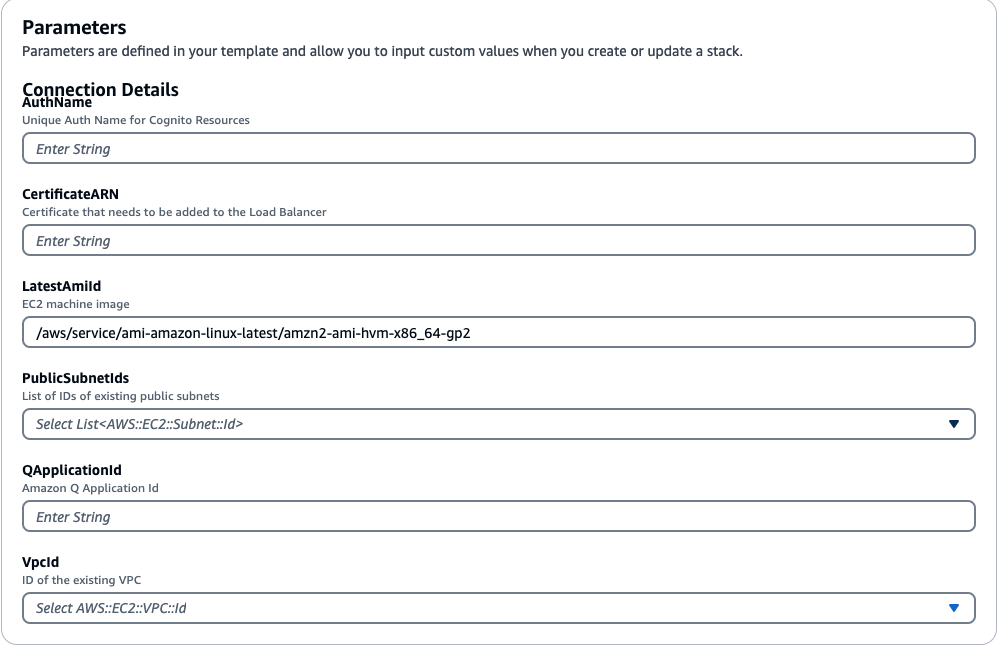
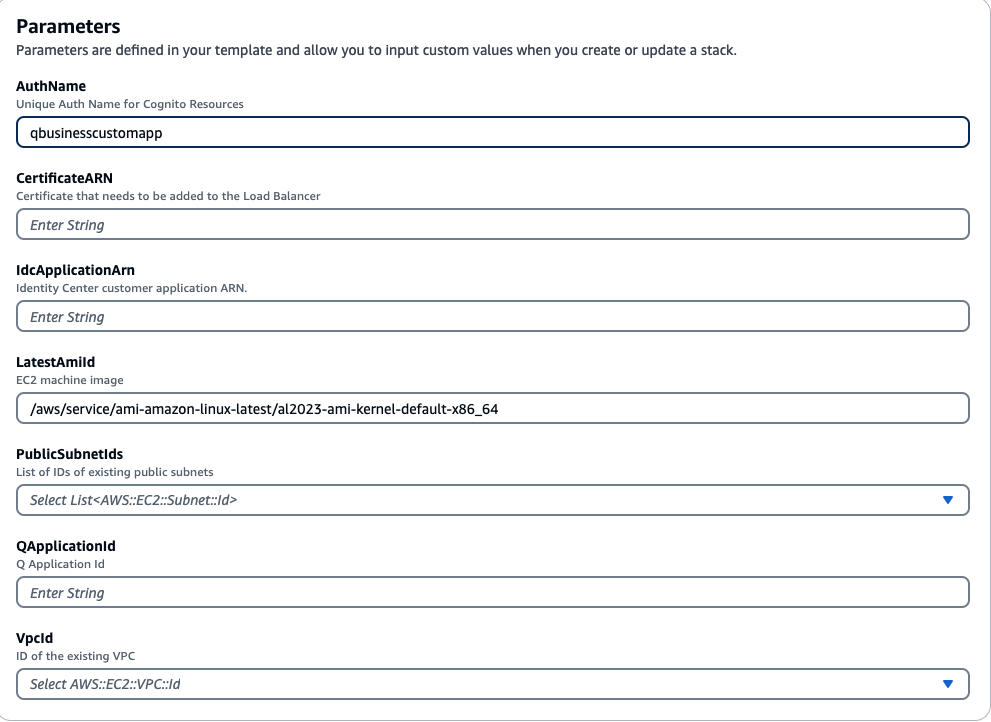
chnages to readme

Changed region(s): [[0.0, 0.0, 1.0, 1.0]]

diff --git a/README.md b/README.md
@@ -47,6 +47,7 @@ If you have administrator access to the account, no action is necessary.
 For more details, [refer to Importing a certificate](https://docs.aws.amazon.com/acm/latest/userguide/import-certificate-api-cli.html).   
 If you do not have a public SSL certificate, follow the steps in the next section to learn how to generate a private certificate.
 - An existing, working Amazon Q application 
+- 
 
 ### Generate Private certificate
 
@@ -72,18 +73,89 @@ If you wish to continue with the self-signed certificate (for development purpos
 
 Step 1: Launch the AWS CloudFormation template. Launch the following AWS CloudFormation template to deploy ELB , Cognto User pool , including the EC2 instance to host the webapp. 
 
+Provide the following parameters for stack
 
-- Provide a Stack Name,
-- And provide all the parameters for CloudFormation template .
-- And copy the URL from the output tab once the stack is sucessfuly completed
+•	**Stack name** – The name of the CloudFormation stack (for example, AmazonQ-UI-Demo)
+
+•	**AuthName** – A globally unique name to assign to the Amazon Cognito user pool
+
+•	**CertificateARN** – The CertificateARN generated from the previous step
+
+•	**IdcApplicationArn** – Identity Center customer application ARN , keep it blank on first run as we need to cognito user pool information to create the Idc Application
+
+
+•	**PublicSubnetIds** – The ID of the public subnet that can be used to deploy the EC2 instance and the Application Load Balancer
+
+•	**QApplicationId** – The existing application ID of Amazon Q
+
+•	**VPCId** – The ID of the existing VPC that can be used to deploy the demo
+
+Once the stack is complete , copy the following Key from Outputs tab .
+
+
+**Audience** : Audience to setup customer application in Identity Cente
+**RoleArn** : ARN of the IAM role required to setup token exchange in Identity Center
+**TrustedIssuerUrl** : Endpoint of the trusted issuer to setup Identity Center
+
+**QServiceRoleNameArn** : IAM role to execute Amazon Q API
+**URL** : The LB URL to access the streamlit app
 
 <img src="docs/properties.png" alt="CloudFormation  parameters" width="400"/>
 
 
 
-Step 2: Custom UI
+Step 2: Create an IAM Idenity Center Application 
 
-The CloudFormation stack deploy and start the streamlit application on an EC2 instance on port 8080.On AWS console, we can navigate to EC2 then Load Balancing and under Target Groups, it shows the health of application running behind the Application Load Balancer. For any debugging purpose you can also connect to AWS EC2 through Session Manager. 
+- Navigate to AWS IAM Identity Center, and add a new custom managed application.
+
+  **Select application type** -> then select OAuth2.0 -> Next
+
+  <img src="docs/iamidcapp_1.png" alt="IAM IDC application" width="400"/>
+
+- Provide an application name and description and select the below option as shown in the  image
+
+<img src="docs/iamdic_2.png" alt="IAM IDC application" width="400"/>
+
+
+-  Now create a trusted token issuer 
+
+<img src="docs/iamidc_3.png" alt="IAM IDC application" width="400"/>
+
+- In the Issuer URL provide the -> provide the **TrustedIssuerUrl** from Step 1,provide issuer name and keep the map attributes as Email
+
+<img src="docs/iamidc_4.png" alt="IAM IDC application" width="400"/>
+
+
+- Then in IAM IDC application authentication settings , select the trusted token issuer and in the Aud claim -> provide the **Audience** from step 1 , then click Next
+
+
+- In Specify application credentials , in Enter IAM roles -> provide **RoleArn** from Step 1
+
+ <img src="docs/iamidcapp_5.png" alt="IAM IDC application" width="400"/>
+
+ - Then Review all the steps and create the application.
+
+ - Once the application is created, go to the application and -> Assigned users and groups .
+
+ - Then set up the Trusted application for identity propagation , follow the below stpes to Amazon Q as Trusted applications for identity propagation
+
+<img src="docs/iamidcapp_6.png" alt="IAM IDC application" width="400"/>
+
+<img src="docs/iamidcapp_7.png" alt="IAM IDC application" width="400"/>
+
+<img src="docs/iamidcapp_8.png" alt="IAM IDC application" width="400"/>
+
+Step 4: Once the IAM Identity Center application is created, copy the Application ARN and navigate to cloudformation to update the stack . Enter the Application ARN in parameter and run the stack
+
+Step 5 : Once the update is complete , navigate to Cloudformation output tab copy the URL and open the URL in a browser
+
+Step 6 : Streamlit app will prompt to **Connect with Cognito** , For the first login attempt try to Sign up , use the same email id and password what you used for IAM Idc .
+
+For a better user onboarding experience we can follow the below link to create another IAM Idc SAML application and configure IAM Identity Center as a SAML IdP in your user pool
+
+[Video](https://www.youtube.com/watch?v=c-hpNhVGnj0&t=522s)
+[Instructions](https://repost.aws/knowledge-center/cognito-user-pool-iam-integration)
+
 
 Connect to the EC2 through AWS Session Manager[Optional]: 
 
@@ -93,28 +165,6 @@ cd /home/ec2-user
 ls
 cd custom-web-experience-with-amazon-q-business/core
 ```
-       
-
-Step 3: Create a user account to login to the app 
--	On AWS Console navigate to Amazon Cognito page. 
--	Select the userpool that was created as part of cloudformation stack 
--	Click Create User
--	Enter user name, email, password and click Create User
-
-Step 4: Update the Callback URL on Cognito
--	On AWS Console navigate to Amazon Cognito page. 
--	Select the userpool that was created as part of cloudformation stack   
--	Under the “App Integration” Tab > “App Client List” section > Select the client that was created 
--	On the Hosted UI section Click Edit 
--	Replace the text “replace_your_LB_url” with the URL that was copied from the cloudformation output tab in Step 1.   
-**Please convert the URL to Lowercase text if it’s not done already.** 
--	Click Save Changes
-
-Step 5: In a new browser window enter https://{url copied from step-1} and login using the username and password that was created in Step 5. Change the password if prompted.
-
-
-
-
 
 ## Security
 
